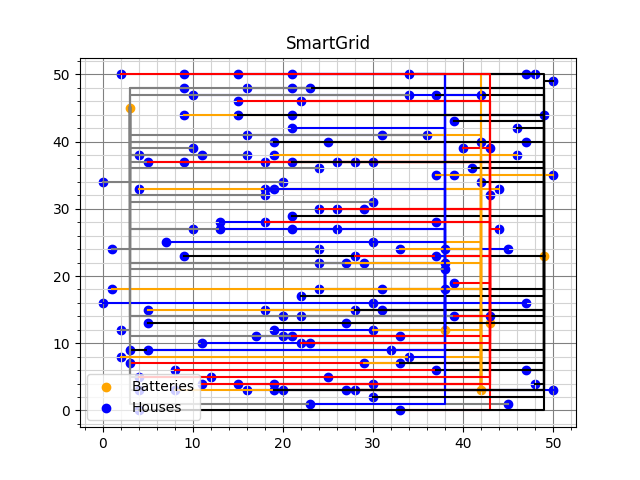
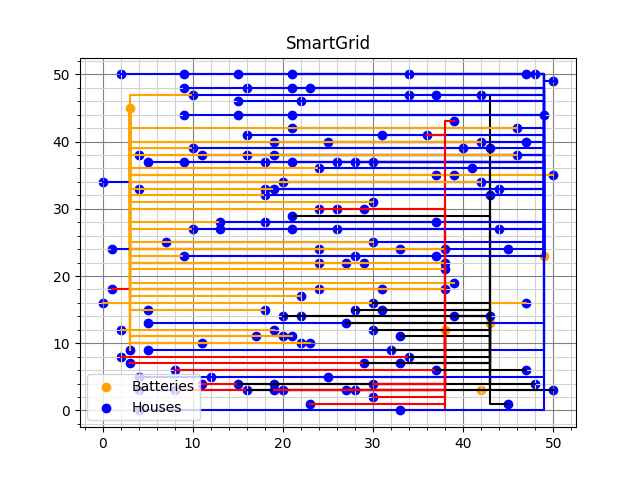
greedy2

Changed region(s): [[0.1562, 0.125, 0.875, 0.875]]

diff --git a/main.py b/main.py
@@ -19,24 +19,18 @@ if __name__ == "__main__":
     grid1 = grid.Grid(house_file, battery_file)
 
     # --------------------------- baseline --------------------------
-<<<<<<< HEAD
-    baseline_costs = list()
-
-    for i in range(100):
-        baseline1 = baseline.Baseline(grid1)
-        baseline1.run()
-        baseline_costs.append(baseline1.grid.calc_cost())
-        # if baseline1.grid.is_valid():
-        #     print("hurray")
-    
-    visualise_costs.visualise_costs(baseline_costs, "random")
-=======
     # baseline_costs = list()
-    # baseline1 = baseline.Baseline(grid1)
-    # baseline1.run()
-    # best_base = copy.deepcopy(baseline1)
+    # for i in range(10):
+    #     baseline1 = baseline.Baseline(grid1)
+    #     baseline1.run()
+    #     best_base = copy.deepcopy(baseline1)
+    #     baseline_costs.append(baseline1.grid.calc_cost())
+    #     if baseline1.grid.is_valid():
+    #         print("hurray")
+    
+    # visualise_costs.visualise_costs(random_costs, "random")
 
-    # for i in range(100000):
+    # for i in range(100):
     #     baseline1 = baseline.Baseline(grid1)
     #     baseline1.run()
     #     print(f"i: {i}, cost: {best_base.grid.calc_cost()}")
@@ -54,7 +48,6 @@ if __name__ == "__main__":
 
     # with open(file_name, 'wb') as handle:
     #     pickle.dump(best_base, handle)
->>>>>>> 04ca8076ebbaf7791b956bf56bdd412eeae9bdae
     
     # --------------------------- original greedy--------------------------
     # greedy1_costs = list()
@@ -62,11 +55,7 @@ if __name__ == "__main__":
     # greedy1.run()
     # best_greedy = copy.deepcopy(greedy1)
 
-<<<<<<< HEAD
-    # for i in range(1000):
-=======
     # for i in range(100000):
->>>>>>> 04ca8076ebbaf7791b956bf56bdd412eeae9bdae
     #     greedy1 = original_greedy.Greedy(grid1)
     #     greedy1.run()
     #     print(f"i: {i}, cost: {best_greedy.grid.calc_cost()}")
@@ -74,13 +63,7 @@ if __name__ == "__main__":
     #     if greedy1.grid.calc_cost() < best_greedy.grid.calc_cost():
     #         best_greedy = copy.deepcopy(greedy1)
 
-<<<<<<< HEAD
-    #     if greedy1.grid.is_valid():
-    #         print("hurray")
-    #     greedy1_costs.append(greedy1.grid.calc_cost())
-=======
         # greedy1_costs.append(greedy1.grid.calc_cost())
->>>>>>> 04ca8076ebbaf7791b956bf56bdd412eeae9bdae
 
     # visualise_costs.visualise_costs(greedy1_costs, "greedy1")
     # file_name = f"SmartGrid/data/solutions/best_greedy.pickle"
@@ -89,16 +72,19 @@ if __name__ == "__main__":
     #     pickle.dump(best_greedy, handle)
 
     # --------------------------- greedy 2 --------------------------
-    # greedy2_costs = list()
+    greedy2_costs = list()
     
-    # for i in range(100):
-    #     greedy2 = greedy.Greedy(grid1)
-    #     greedy2.run_greedy()
-    #     # fixed_greedy = fix_greedy.Fix_greedy(greedy2.grid)
-    #     # fixed_greedy.run2()
-    #     greedy2_costs.append(greedy2.grid.calc_cost())
+    for i in range(20):
+        greedy2 = greedy.Greedy(grid1)
+        greedy2.run_greedy()
+        # fixed_greedy = fix_greedy.Fix_greedy(greedy2.grid)
+        # fixed_greedy.run3()
+        if greedy2.grid.is_valid():
+             print("hurray")
+        greedy2_costs.append(greedy2.grid.calc_cost())
 
-    # visualise_costs.visualise_costs(greedy2_costs, "greedy2")
+    visualise_costs.visualise_costs(greedy2_costs, "greedy2")
+
 
     # --------------------------- Hill Climber ---------------------------------
     # print("Setting up Hill Climber...")
@@ -114,18 +100,18 @@ if __name__ == "__main__":
     # print(climber.grid.is_valid())
 
     # --------------------------- Hill Climber fix 2 ---------------------------------
-    file_name = "/home/thomas61197/SmartGrid/data/solutions/best_greedy.pickle"
+    # file_name = "/home/thomas61197/SmartGrid/data/solutions/best_greedy.pickle"
 
-    with open(file_name, 'rb') as handle:
-        best_greedy = pickle.load(handle)
+    # with open(file_name, 'rb') as handle:
+    #     best_greedy = pickle.load(handle)
 
-    print(best_greedy.grid.calc_cost())
+    # print(best_greedy.grid.calc_cost())
     
-    print("Setting up Hill Climber...")
-    climber = hill_climber_fix2.Hill_climber(best_greedy.grid)
+    # print("Setting up Hill Climber...")
+    # climber = hill_climber_fix2.Hill_climber(best_greedy.grid)
 
-    print("Running Hill Climber...")
-    climber.run(100000, verbose=True, mutate_houses_number=10)
+    # print("Running Hill Climber...")
+    # climber.run(100000, verbose=True, mutate_houses_number=10)
 
     # print(f"Value of the configuration after Hill Climber: "
     #       f"{climber.grid.calc_cost()}")
@@ -133,9 +119,9 @@ if __name__ == "__main__":
     # print("valid?")
     # print(climber.grid.is_valid())
 
-    if climber.grid.is_valid():
-        climber_id = 4
-        file_name = f"SmartGrid/data/solutions/climber_{climber_id}_best_greedy.pickle"
+    # if climber.grid.is_valid():
+    #     climber_id = 4
+    #     file_name = f"SmartGrid/data/solutions/climber_{climber_id}_best_greedy.pickle"
 
     #     with open(file_name, 'wb') as handle:
     #         pickle.dump(climber, handle)
@@ -261,4 +247,4 @@ if __name__ == "__main__":
 
 
 # --------------------------- visualisation --------------------------
-visualise_cables.visualise(baseline1.grid)
+visualise_cables.visualise(greedy2.grid)

diff --git a/code/algorithms/fix_greedy.py b/code/algorithms/fix_greedy.py
@@ -135,17 +135,70 @@ class Fix_greedy:
             cable1.lay_cable()
             fitting_house.cable = cable1
 
+    def replace_random(self, battery):
+
+        # Take a random house out of battery.houses
+        replace_house_id = random.choice(list(battery.houses.keys()))
+        replace_house = self.grid.houses[replace_house_id]
+
+        # Find a battery with space for that house, pick another house otherwise
+        try:
+            replace_to_battery = random.choice(self.find_space(replace_house))
+        except:
+            self.replace_random(battery)
+        
+        # Replace the house
+        battery.remove_house(replace_house)
+        replace_to_battery.add_house(replace_house)
+
+    def houses_dif_capacity(self, battery):
+        """
+        If a house can make the battery capacity valid, add it to the dict.
+        Find the minimum house max output to make the bat cap valid in that dict.
+        """
+        diff_dict = {}
+
+        for house in battery.houses.values():
+            if battery.capacity + house.max_output > 0:
+                diff_dict[house.id] = (abs(battery.capacity) - house.max_output)
+
+        print('min diff dict: ', min(diff_dict))
+        min_dif_house = min(diff_dict, key = diff_dict.get)
+        
+        return min_dif_house
+
+
     def run3(self):
 
-        # while at least 1 battery is full
-            # take the house with the largest max output from the battery with the most cumulative output
-            # disconnect this house from the battery with the most cumulative output
-            # add it to the battery with the lowest cumulative output
+        """
+        Randomly pick a house from a full battery and replace it to a battery with space.
+        If the battery is still full, find the house with max output ~~ capacity_left
+        Place that with a battery with space
+        """
+        # first get the batteries that need to be fixed
+        for battery in self.capacity_full():
+            # Take a random battery out of battery.houses
+            self.replace_random(battery)
 
-            # take the house with the smallest max output from the battery with the least cumulative output
-            # disconnect this house from the battery with the least cumulative output
-            # add it to the battery with the most cumulative output
-        pass
+            # while battery is not yet fixed
+            while battery.capacity_reached() == True:
+                # find min difference max output ~~ capacity_left
+                house_min_dif_id = self.houses_dif_capacity(battery)
+
+                #### Make this a def
+                try:
+                    replace_to_battery = random.choice(self.find_space(house_min_dif_id))
+                except:
+                    ## nested function, if no space could be found for smallest diff cap-max output house, 
+                    # take a random one
+                    self.replace_random(battery)
+                
+                # Replace the house
+                battery.remove_house(house_min_dif_id)
+                replace_to_battery.add_house(house_min_dif_id)
+                
+
+
                 
 
 

diff --git a/code/algorithms/greedy.py b/code/algorithms/greedy.py
@@ -35,8 +35,8 @@ class Greedy:
 
     def replace_connections(self): 
         """
-        Find the houses with the shortest distance to their next closest battery, 
-        connect if capacity of current battery is filled
+        Find the houses with the shortest distance to their next closest battery. 
+        If the battery they're connected to now is full, replace that house to next closest battery.
         """
 
         #battery_numbers = [*range(0,len(self.grid.batteries.values()))]
@@ -106,11 +106,11 @@ class Greedy:
             cable1.lay_cable()
             house.add_cable(cable1)
             
-        # for battery in self.grid.batteries.values():
-        #         print(battery.get_cum_output())
-        # print('Output to batteries:')
-        # check_capacity = any(battery.capacity_reached() in self.grid.batteries for battery in self.grid.batteries.values())
-        # if check_capacity == False:
-        #     print('Good')
+        for battery in self.grid.batteries.values():
+                print(battery.get_cum_output())
+        print('Output to batteries:')
+        check_capacity = any(battery.capacity_reached() in self.grid.batteries for battery in self.grid.batteries.values())
+        if check_capacity == False:
+            print('Good')
 
 

diff --git a/code/algorithms/baseline.py b/code/algorithms/baseline.py
@@ -1,6 +1,6 @@
 import copy
 import random
-from code.classes import cable
+from code.classes import cable, grid
 
 class Baseline:
     """
@@ -23,8 +23,12 @@ class Baseline:
             # keep picking a random battery until you've found one that has enough space
             # while random_battery.capacity_left() < house.max_output:
             
-            while random_battery.capacity_reached():
+            # while random_battery.capacity_reached():
+            #     random_battery = random.choice(self.grid.batteries)
+            while random_battery.capacity_left() < house.max_output:
                 random_battery = random.choice(self.grid.batteries)
+                if random_battery.capacity_left() < 60:
+                    print(random_battery.id, 'is:', random_battery.capacity_left(), 'and', house.max_output)
             
             random_battery.add_house(house)
             house.battery = random_battery.id
